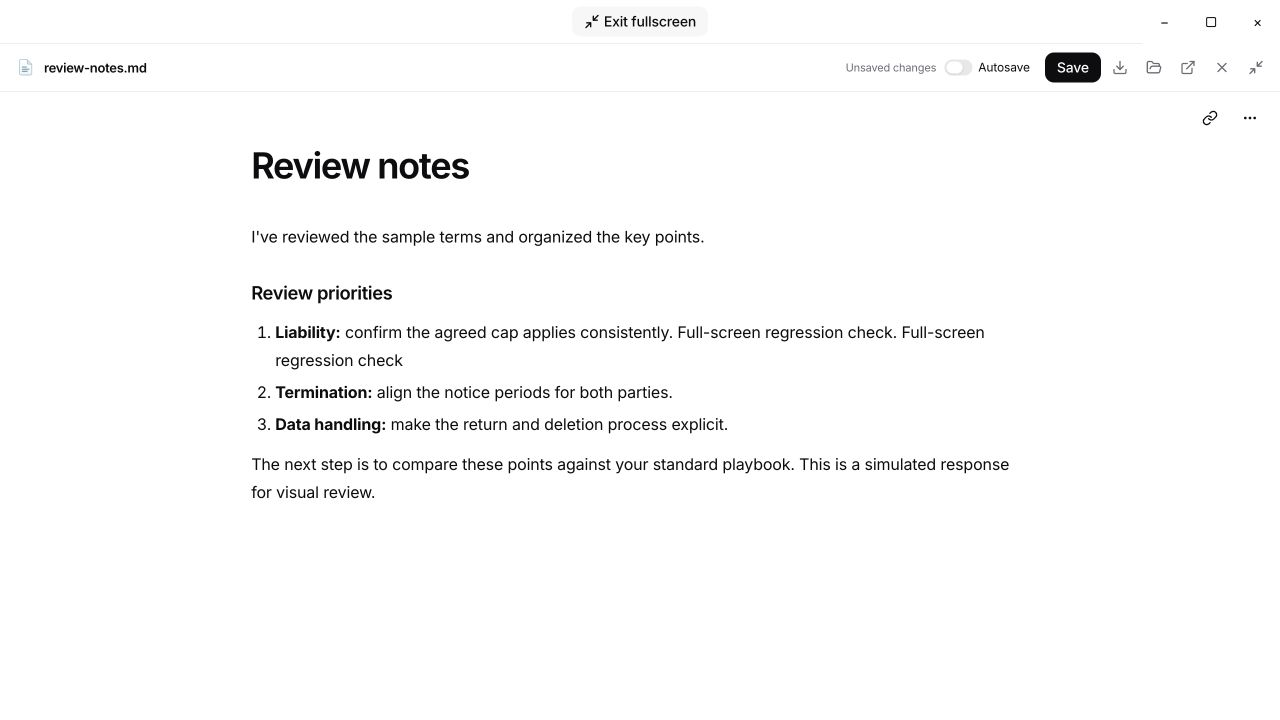
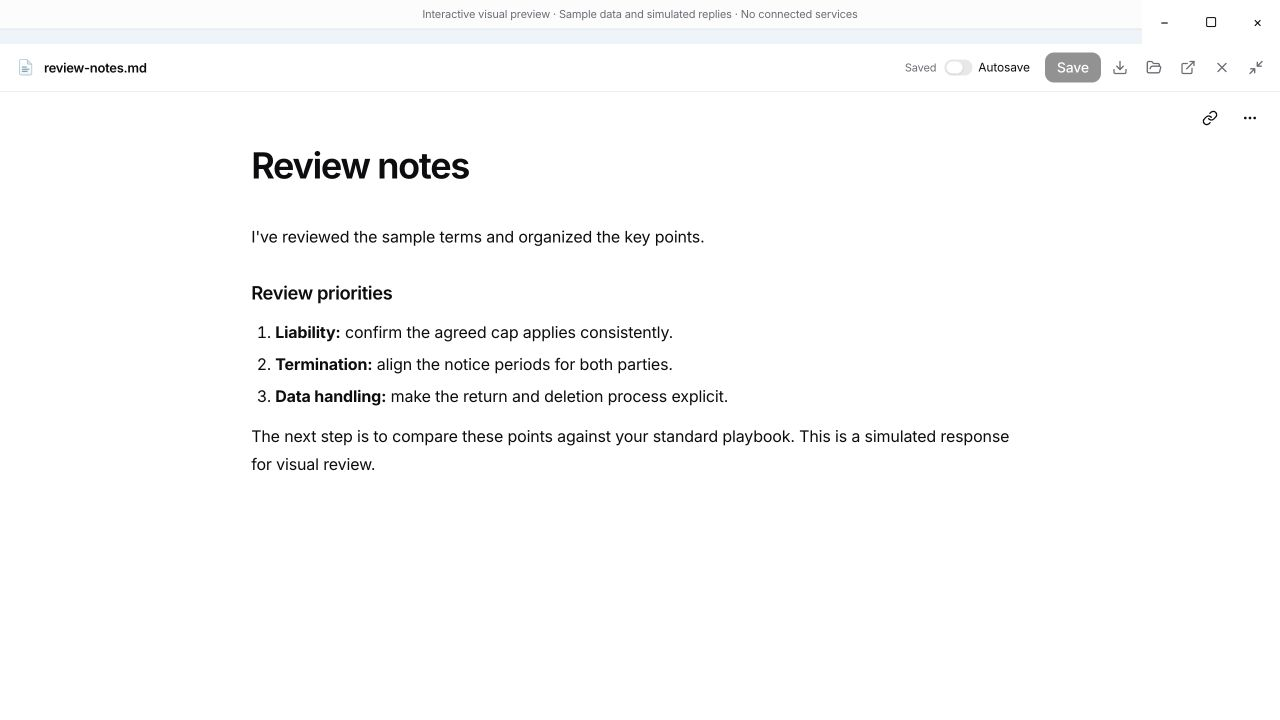
Keep existing fullscreen controls and reserve Windows caption space

diff --git a/apps/app/scripts/markdown-fullscreen-check.js b/apps/app/scripts/markdown-fullscreen-check.js
@@ -24,6 +24,7 @@ export default async function checkMarkdownFullscreen(page) {
 
   const expand = page.getByRole("button", { name: "Expand document", exact: true });
   const exit = page.getByRole("button", { name: "Exit fullscreen", exact: true });
+  const restore = page.getByRole("button", { name: "Restore document panel", exact: true });
   const assertRestored = async () => {
     await expand.waitFor({ state: "visible" });
     if (await page.locator('[data-artifact-expanded="true"]').count()) throw new Error("Document stayed expanded.");
@@ -31,19 +32,19 @@ export default async function checkMarkdownFullscreen(page) {
   };
 
   await expand.click();
-  if (!await exit.isVisible()) throw new Error("Exit fullscreen is hidden on this platform.");
-  if (!await exit.evaluate(button => {
+  if (await exit.isVisible()) throw new Error("An extra exit button was added to the Windows layout.");
+  if (!await restore.evaluate(button => {
     const box = button.getBoundingClientRect();
     return box.left >= 0 && box.right <= innerWidth && box.top >= 0
       && box.bottom <= innerHeight && button.contains(document.elementFromPoint(box.x + box.width / 2, box.y + box.height / 2))
       && getComputedStyle(button).getPropertyValue("app-region") === "no-drag";
-  })) throw new Error("Exit fullscreen is clipped, covered, or part of the native drag region.");
-  if (!await page.getByRole("button", { name: "Restore document panel", exact: true }).evaluate(button => {
+  })) throw new Error("Restore document panel is clipped, covered, or part of the native drag region.");
+  if (!await restore.evaluate(button => {
     const box = button.getBoundingClientRect();
     const caption = document.querySelector("[data-preview-caption-controls]")?.getBoundingClientRect();
     return !caption || box.top >= caption.bottom;
   })) throw new Error("Document toolbar overlaps the native caption controls.");
-  await exit.click();
+  await restore.click();
   await assertRestored();
 
   await expand.click();
@@ -51,12 +52,12 @@ export default async function checkMarkdownFullscreen(page) {
   await assertRestored();
 
   await expand.click();
-  await page.getByRole("button", { name: "Restore document panel", exact: true }).click();
+  await restore.click();
   await assertRestored();
   // Input drivers may create one undo entry per character instead of one per word.
   for (let undo = 0; undo < marker.length && await editor.innerText() !== original; undo++) {
     await editor.press("ControlOrMeta+z");
   }
   if (await editor.innerText() !== original) throw new Error("The editor lost its undo history while changing full-screen state.");
-  console.log("PASS: labeled exit, caption clearance, Escape, restore icon, unsaved draft and undo history.");
+  console.log("PASS: existing restore icon, no added exit button, caption clearance, Escape, unsaved draft and undo history.");
 }

diff --git a/apps/app/src/react-app/domains/session/artifacts/expanded-document-bar.tsx b/apps/app/src/react-app/domains/session/artifacts/expanded-document-bar.tsx
@@ -1,9 +1,9 @@
 import { Minimize2 } from "lucide-react";
 import { Button } from "@/components/ui/button";
 
-/** Keep a labeled way back visible, using the macOS window-control strip there. */
+/** Use the macOS window-control strip as a clear way out of expanded documents. */
 export function ExpandedDocumentBar({ label, onRestore }: { label: string; onRestore: () => void }) {
-  return <div data-expanded-document-bar className="titlebar-drag z-50 flex h-11 shrink-0 items-center justify-center border-b border-border/70 bg-background px-4 windows:min-h-[env(titlebar-area-height,44px)] mac:fixed mac:inset-x-0 mac:top-0 mac:px-24">
+  return <div data-expanded-document-bar className="titlebar-drag fixed inset-x-0 top-0 z-50 hidden h-11 items-center justify-center border-b border-border/70 bg-background px-24 mac:flex">
     <Button variant="secondary" size="sm" className="titlebar-no-drag" onClick={onRestore}>
       <Minimize2 />{label}
     </Button>

diff --git a/apps/app/src/react-app/domains/session/artifacts/artifact-frame.tsx b/apps/app/src/react-app/domains/session/artifacts/artifact-frame.tsx
@@ -28,7 +28,7 @@ export function ArtifactFrame({ title, icon, meta, actions, expandable, children
         setExpanded(false);
       }}
       className={expanded
-        ? "fixed inset-0 z-40 flex min-h-0 min-w-0 flex-col overflow-hidden bg-background mac:top-11"
+        ? "fixed inset-0 z-40 flex min-h-0 min-w-0 flex-col overflow-hidden bg-background mac:top-11 windows:top-[env(titlebar-area-height,44px)]"
         : "flex h-full min-h-0 min-w-0 flex-col overflow-hidden bg-background"}
     >
       {expanded && <ExpandedDocumentBar label={t("artifact.exit_fullscreen")} onRestore={() => setExpanded(false)} />}
